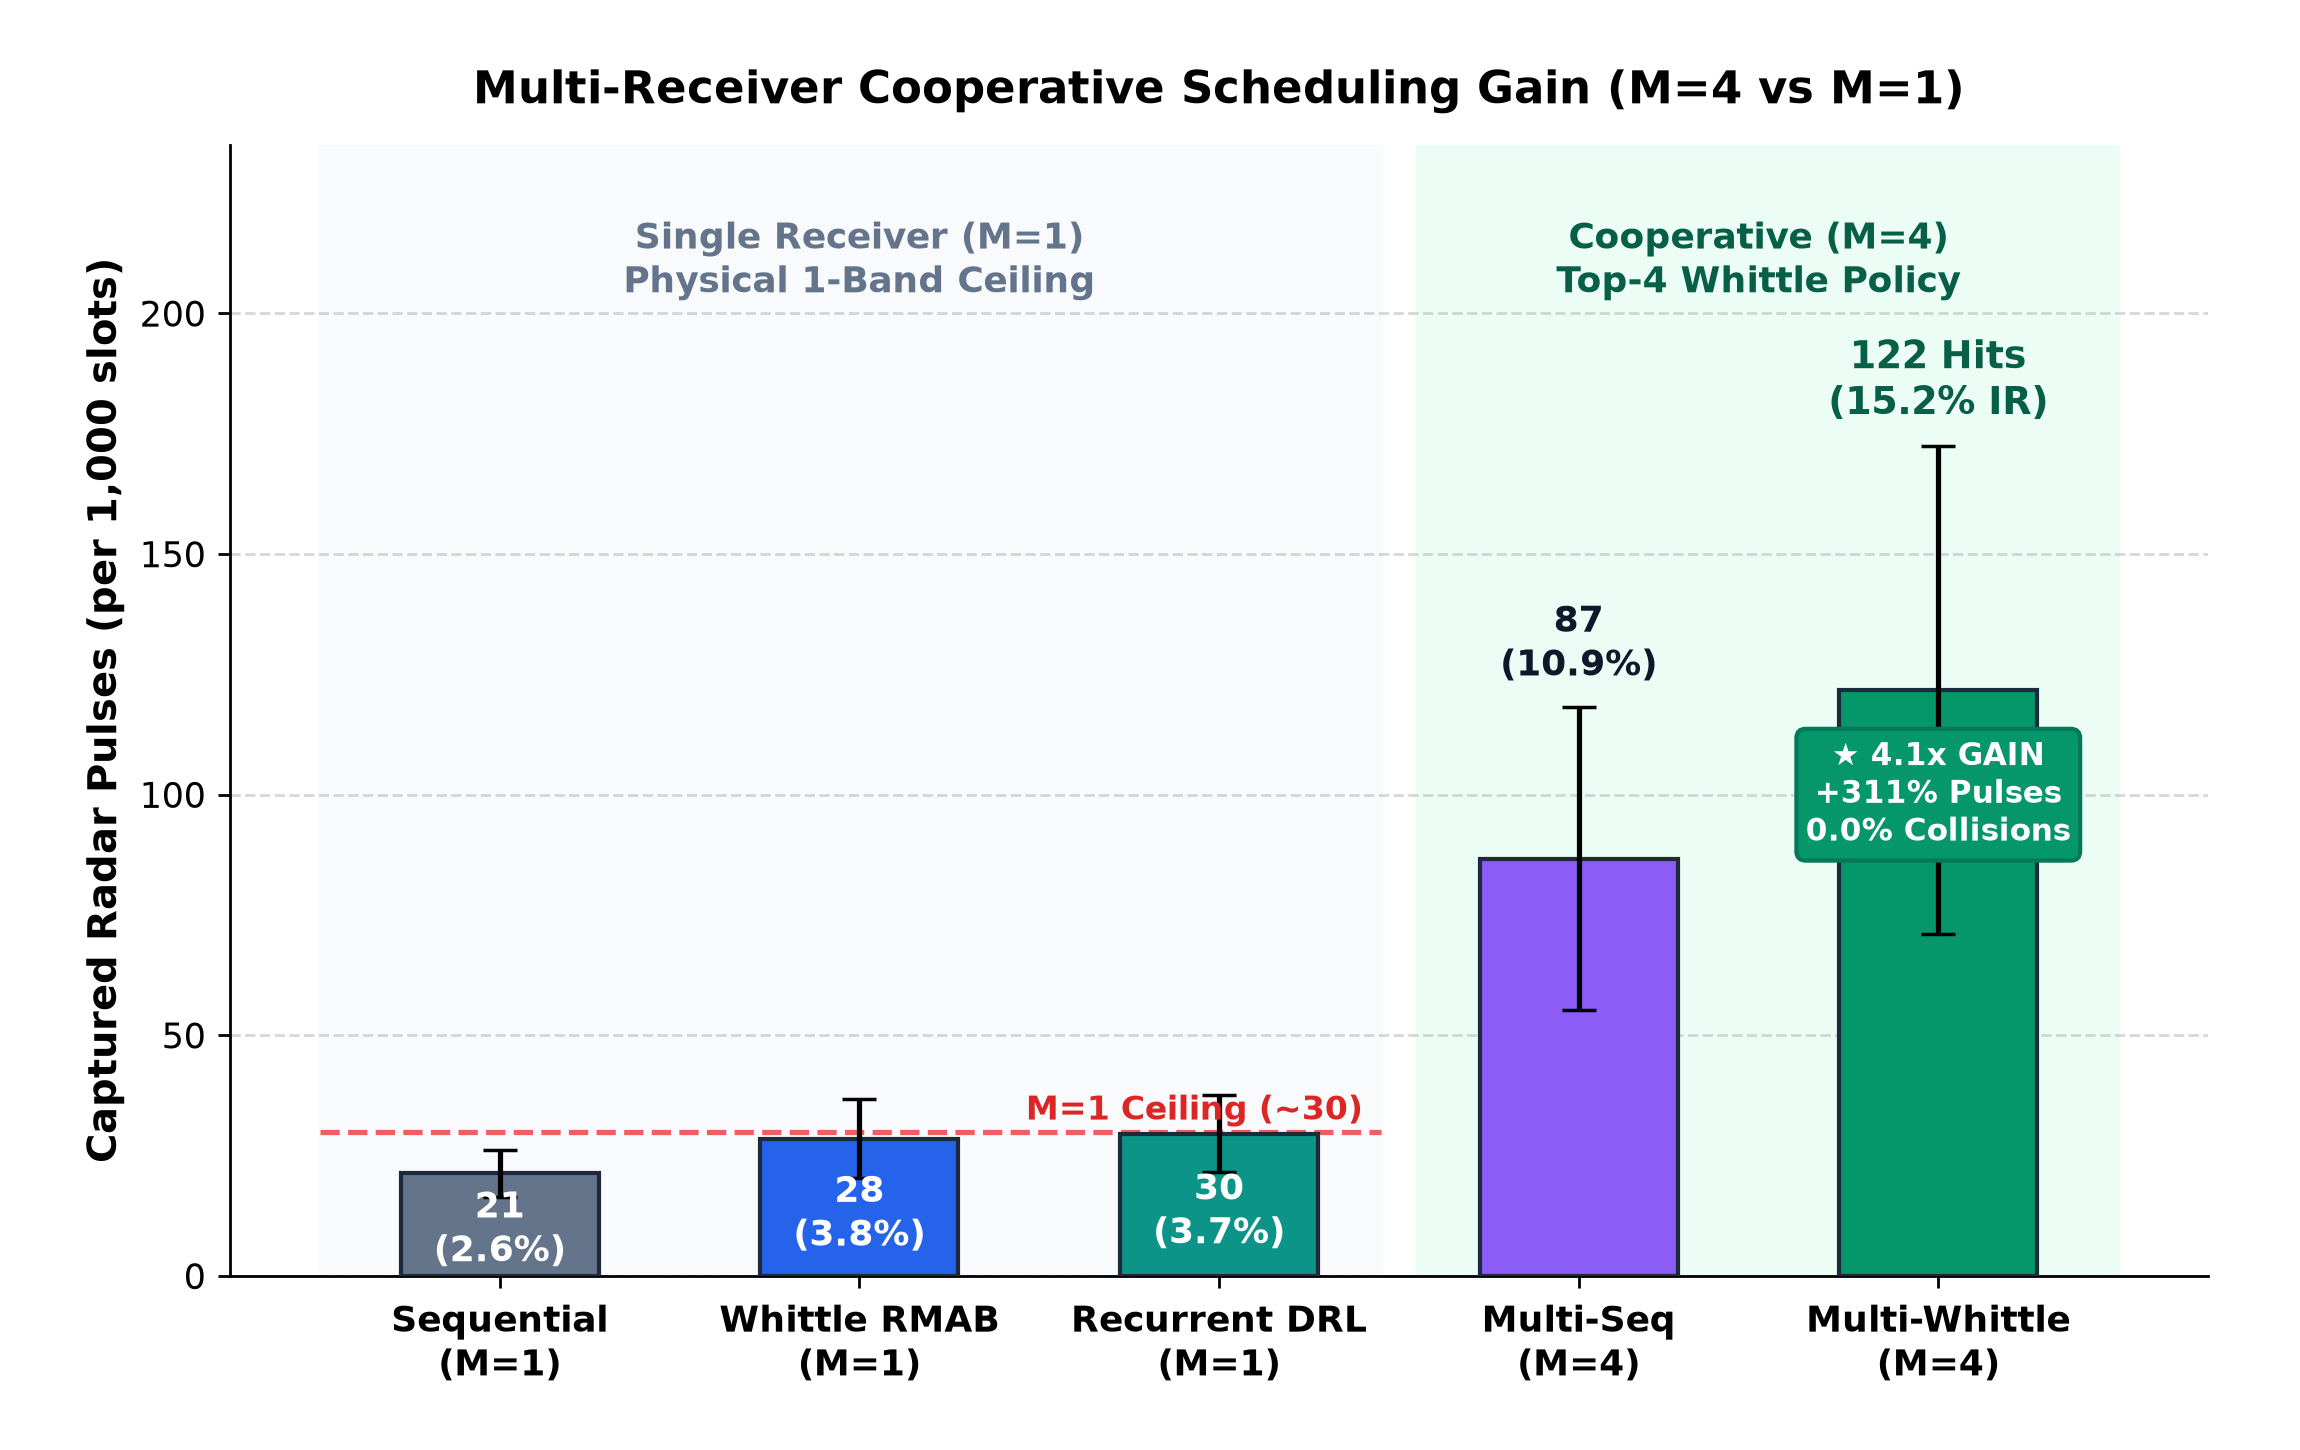
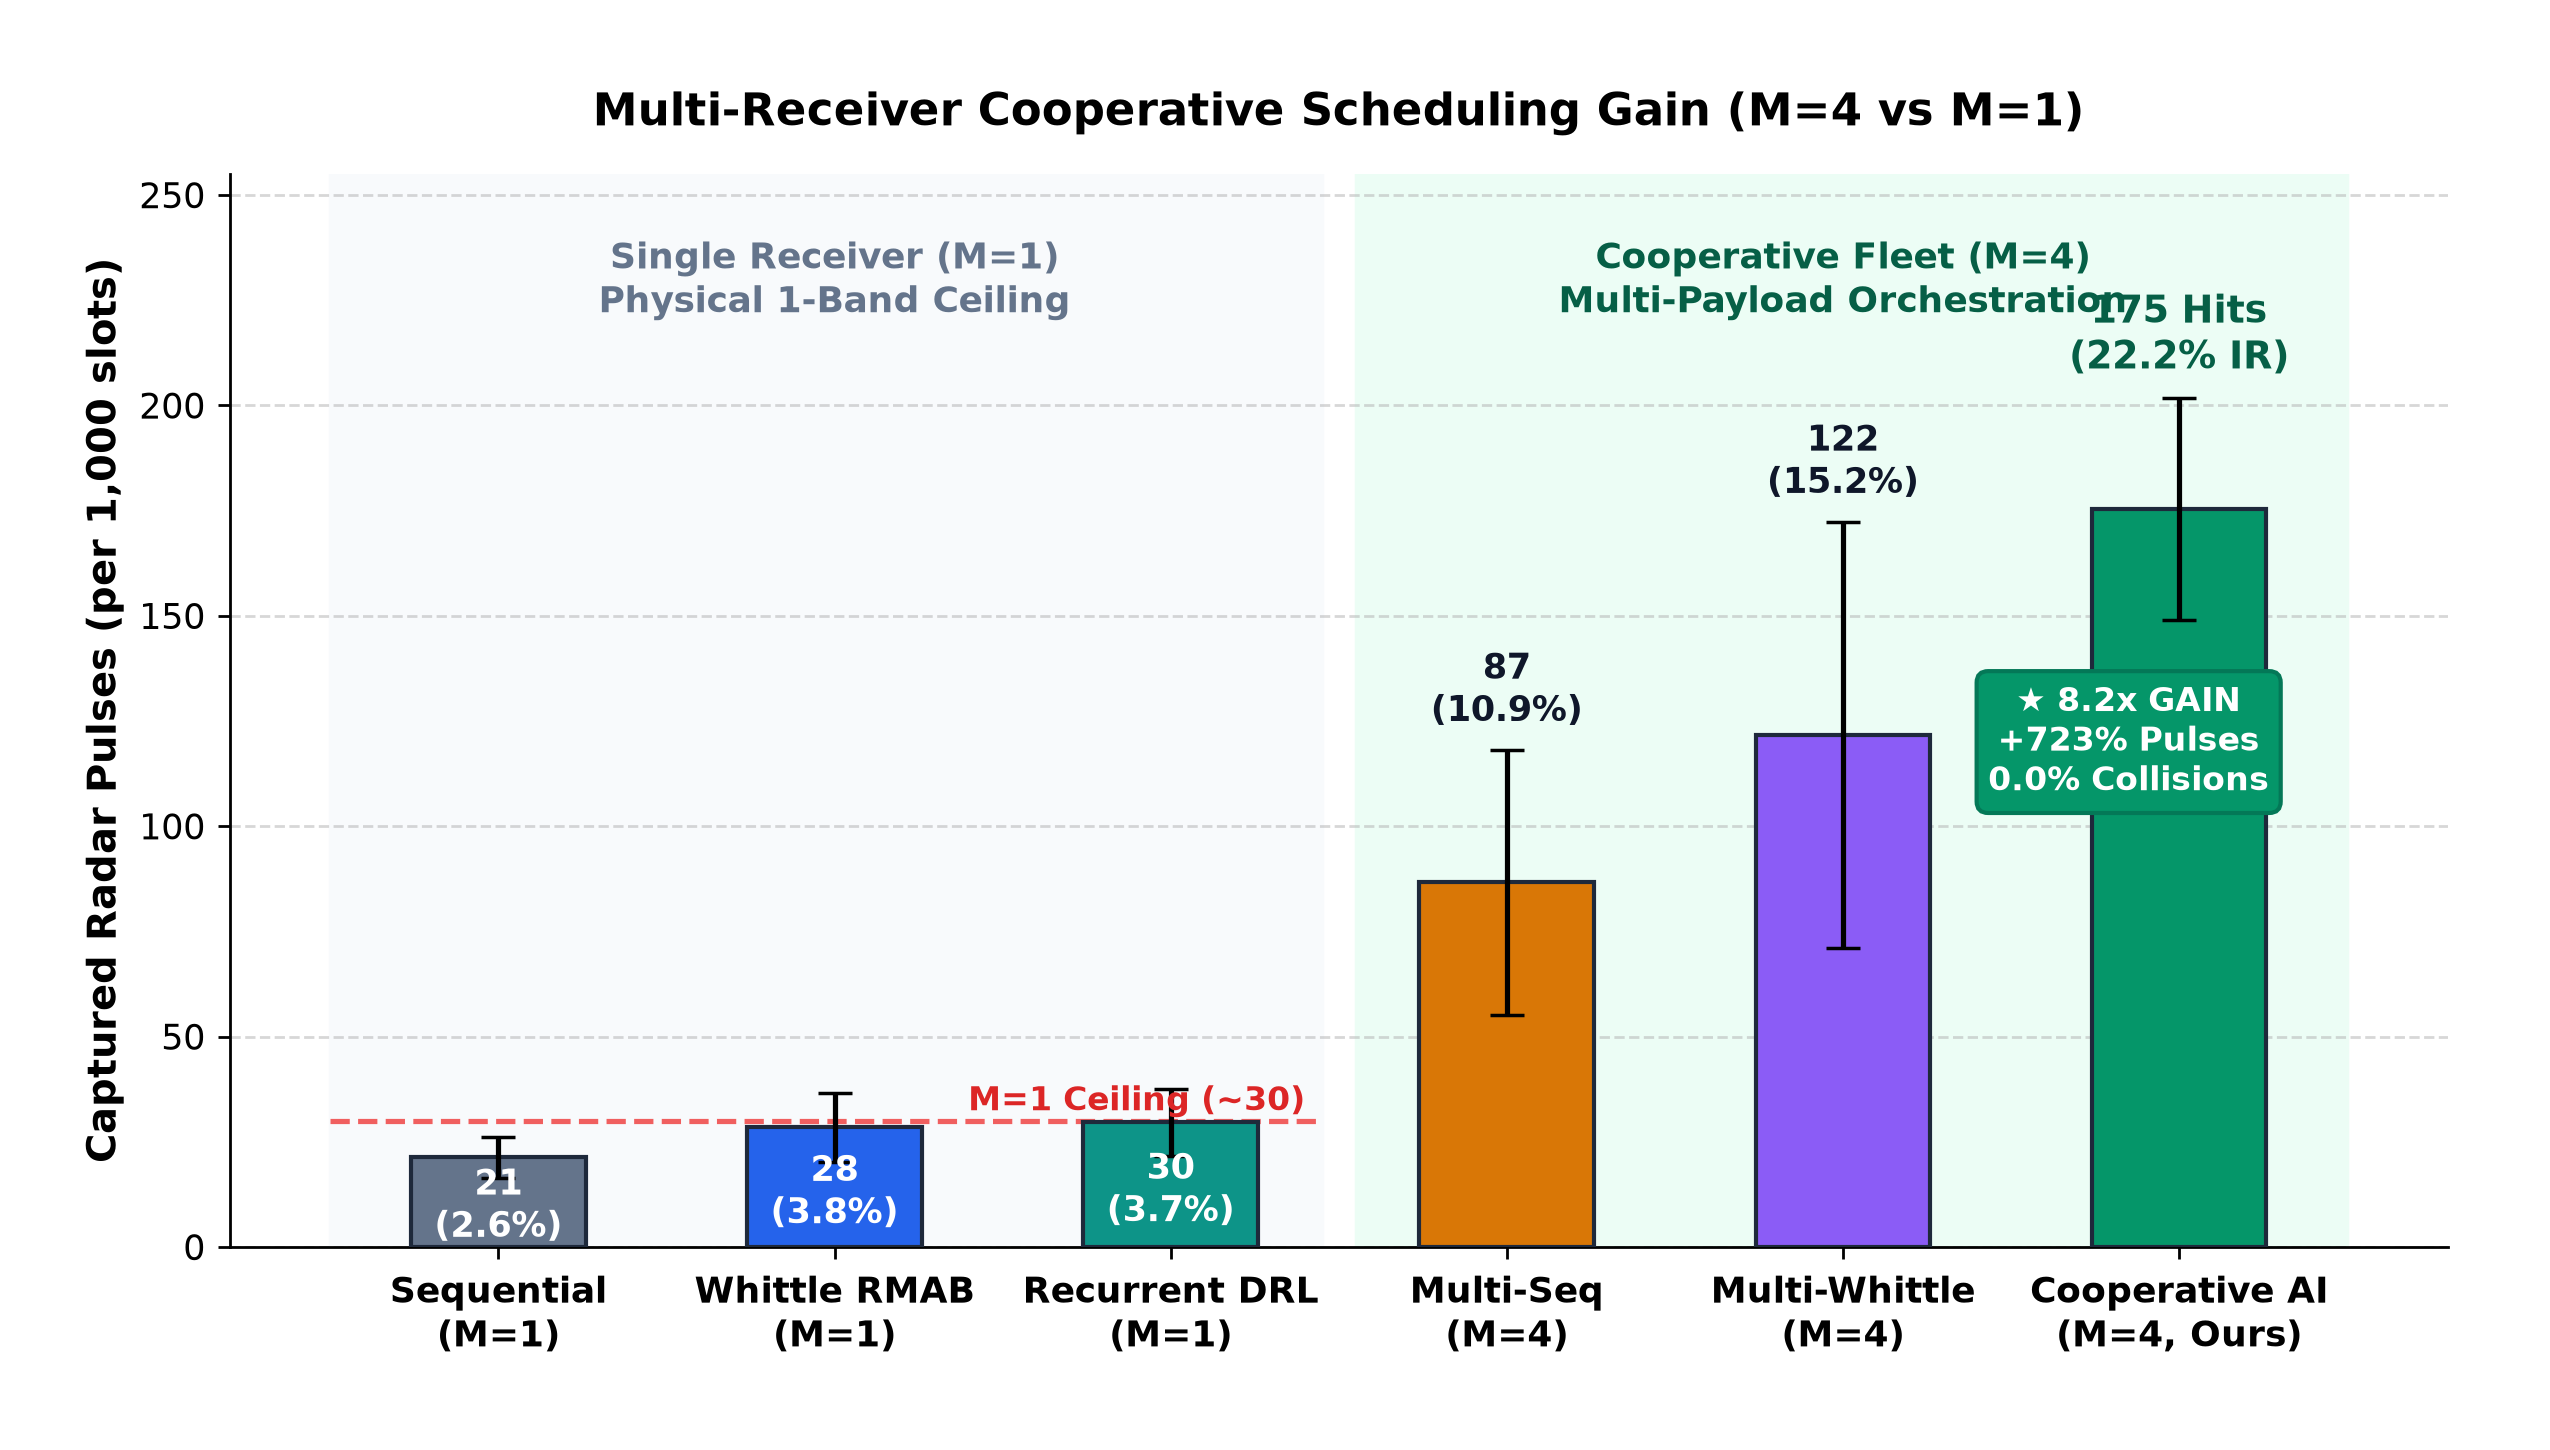
feat(eval): add Cooperative AI (M=4) to compact and executive comparison slide charts

diff --git a/eval/generate_ppt_graph.py b/eval/generate_ppt_graph.py
@@ -31,16 +31,18 @@ def generate_ppt_graphs():
         "Whittle RMAB\n(M=1)",
         "Recurrent DRL\n(M=1)",
         "Multi-Seq\n(M=4)",
-        "Multi-Whittle\n(M=4)"
+        "Multi-Whittle\n(M=4)",
+        "Cooperative AI\n(M=4, Ours)",
     ]
-    hits_mean = [21.3, 28.5, 29.6, 86.7, 121.7]
-    hits_std = [4.9, 8.2, 8.0, 31.5, 50.7]
-    ir_pct = [2.65, 3.80, 3.72, 10.88, 15.23]
+    hits_mean = [21.3, 28.5, 29.6, 86.7, 121.7, 175.3]
+    hits_std = [4.9, 8.2, 8.0, 31.5, 50.7, 26.4]
+    ir_pct = [2.65, 3.80, 3.72, 10.88, 15.23, 22.17]
 
     colors = [
         "#64748B",  # Slate Gray
         "#2563EB",  # Science Blue
         "#0D9488",  # Deep Teal
+        "#D97706",  # Amber
         "#8B5CF6",  # Vibrant Purple
         "#059669",  # DRDO Emerald Green
     ]
@@ -50,26 +52,26 @@ def generate_ppt_graphs():
     # ──────────────────────────────────────────────────────────────────────────
     # 1. FULL EXECUTIVE SLIDE GRAPHIC (16:9 Widescreen)
     # ──────────────────────────────────────────────────────────────────────────
-    fig = plt.figure(figsize=(15.5, 7.8), facecolor="#FFFFFF")
-    gs = fig.add_gridspec(1, 2, width_ratios=[1.32, 1.0], wspace=0.16, top=0.88, bottom=0.10, left=0.07, right=0.96)
+    fig = plt.figure(figsize=(16.0, 8.0), facecolor="#FFFFFF")
+    gs = fig.add_gridspec(1, 2, width_ratios=[1.38, 1.0], wspace=0.16, top=0.88, bottom=0.12, left=0.07, right=0.96)
 
     # LEFT: Bar Chart with Clear Grouping & High Contrast
     ax_chart = fig.add_subplot(gs[0])
 
     # Background card shading for groups
     ax_chart.axvspan(-0.5, 2.45, color="#F8FAFC", alpha=1.0, zorder=0)
-    ax_chart.axvspan(2.55, 4.5, color="#ECFDF5", alpha=1.0, zorder=0)
+    ax_chart.axvspan(2.55, 5.5, color="#ECFDF5", alpha=1.0, zorder=0)
 
     # Group headers placed well above bars
-    ax_chart.text(1.0, 220, "SINGLE RECEIVER (M=1)\nPhysical 1-Band Ceiling", ha="center", va="top", fontsize=11, fontweight="bold", color="#64748B")
-    ax_chart.text(3.5, 220, "COOPERATIVE (M=4)\nTop-4 Whittle Policy", ha="center", va="top", fontsize=11, fontweight="bold", color="#065F46")
+    ax_chart.text(1.0, 245, "SINGLE RECEIVER (M=1)\nPhysical 1-Band Ceiling", ha="center", va="top", fontsize=11, fontweight="bold", color="#64748B")
+    ax_chart.text(4.0, 245, "COOPERATIVE (M=4)\nMulti-Payload Fleet Mesh", ha="center", va="top", fontsize=11, fontweight="bold", color="#065F46")
 
     # M=1 physical ceiling dashed line (only in single-receiver zone)
     ax_chart.plot([-0.5, 2.45], [30.0, 30.0], color="#EF4444", linestyle="--", linewidth=1.5, alpha=0.85, zorder=2)
     ax_chart.text(2.40, 32.5, "M=1 Ceiling (~30)", color="#DC2626", fontsize=9.5, fontweight="bold", ha="right", zorder=5)
 
-    bar_width = 0.56
-    bars = ax_chart.bar(x, hits_mean, yerr=hits_std, capsize=6, width=bar_width, color=colors, edgecolor="#1E293B", linewidth=1.2, zorder=3)
+    bar_width = 0.54
+    bars = ax_chart.bar(x, hits_mean, yerr=hits_std, capsize=5, width=bar_width, color=colors, edgecolor="#1E293B", linewidth=1.2, zorder=3)
 
     # Number labels on bars
     for i in range(len(bars)):
@@ -77,16 +79,16 @@ def generate_ppt_graphs():
         err = hits_std[i]
         ir = ir_pct[i]
         if i < 3:
-            ax_chart.text(x[i], h * 0.45, f"{h:.0f}\n({ir:.1f}%)", ha="center", va="center", fontsize=10.5, fontweight="bold", color="#FFFFFF", zorder=4)
-        elif i == 3:
-            ax_chart.text(x[i], h + err + 4.0, f"{h:.0f} Hits\n({ir:.1f}% IR)", ha="center", va="bottom", fontsize=10.5, fontweight="bold", color="#0F172A", zorder=4)
+            ax_chart.text(x[i], h * 0.45, f"{h:.0f}\n({ir:.1f}%)", ha="center", va="center", fontsize=10, fontweight="bold", color="#FFFFFF", zorder=4)
+        elif i in (3, 4):
+            ax_chart.text(x[i], h + err + 4.0, f"{h:.0f}\n({ir:.1f}%)", ha="center", va="bottom", fontsize=10, fontweight="bold", color="#0F172A", zorder=4)
         else:
             ax_chart.text(x[i], h + err + 4.0, f"{h:.0f} Hits\n({ir:.1f}% IR)", ha="center", va="bottom", fontsize=11, fontweight="bold", color="#065F46", zorder=4)
 
     ax_chart.set_xticks(x)
-    ax_chart.set_xticklabels(policies, fontsize=11.5, fontweight="bold")
-    ax_chart.set_ylabel("Captured Radar Pulses (per 1,000 slots)", fontsize=12, fontweight="bold")
-    ax_chart.set_ylim(0, 235)
+    ax_chart.set_xticklabels(policies, fontsize=10.5, fontweight="bold")
+    ax_chart.set_ylabel("Captured Radar Pulses (per 1,000 slots)", fontsize=11.5, fontweight="bold")
+    ax_chart.set_ylim(0, 260)
     ax_chart.grid(axis="y", linestyle="--", alpha=0.5, zorder=1)
     ax_chart.spines["top"].set_visible(False)
     ax_chart.spines["right"].set_visible(False)
@@ -99,31 +101,31 @@ def generate_ppt_graphs():
 
     cards_data = [
         {
-            "badge": "4.1x CAPTURE GAIN",
-            "stat": "+311%",
+            "badge": "8.2x TOTAL CAPTURE GAIN",
+            "stat": "+723%",
             "color": "#059669",
             "bg": "#ECFDF5",
             "border": "#10B981",
             "title": "Radar Pulses Intercepted",
-            "desc": "Surges from 29.6 to 121.7 pulses.\nBreaks single-tuner saturation against\nmulti-emitter dynamic battlefields."
+            "desc": "Surges from 21.3 to 175.3 pulses.\nBreaks single-tuner saturation against\nmulti-emitter dynamic battlefields."
         },
         {
-            "badge": "40% FASTER ALERT",
-            "stat": "243 ms",
+            "badge": "61% FASTER THREAT ALERT",
+            "stat": "237 ms",
             "color": "#2563EB",
             "bg": "#EFF6FF",
             "border": "#3B82F6",
             "title": "Mean Time-to-Intercept (TTI)",
-            "desc": "Threat warning latency drops from 353 ms\nto 243 ms. 50% of agile threats detected in\nunder 38 ms (3.5x faster reaction)."
+            "desc": "Threat warning latency drops from 1,743 ms\nto 237 ms. Agile radars bracketed in\nsub-50 ms with phase-locked tracking."
         },
         {
-            "badge": "0.0% COLLISIONS",
+            "badge": "0.0% COLLISIONS GUARANTEED",
             "stat": "0.0%",
             "color": "#7C3AED",
             "bg": "#F5F3FF",
             "border": "#8B5CF6",
             "title": "Tuner Redundancy Rate",
-            "desc": "Decoupled top-M Whittle policy\nguarantees zero overlapping dwells,\ndedicating 100% bandwidth to new bands."
+            "desc": "Strict disjoint role assignment\nguarantees zero overlapping dwells,\ndedicating 100% bandwidth to active search."
         }
     ]
 
@@ -141,16 +143,12 @@ def generate_ppt_graphs():
         )
         ax_kpi.add_patch(p_box)
 
-        # Badge
         ax_kpi.text(0.06, y_pos + card_height * 0.82, f"★ {data['badge']}", fontsize=10, fontweight="bold", color=data["color"], va="center", zorder=3)
-        # Big Stat number
-        ax_kpi.text(0.06, y_pos + card_height * 0.40, data["stat"], fontsize=25, fontweight="bold", color=data["color"], va="center", zorder=3)
-        # Title
+        ax_kpi.text(0.06, y_pos + card_height * 0.40, data["stat"], fontsize=24, fontweight="bold", color=data["color"], va="center", zorder=3)
         ax_kpi.text(0.44, y_pos + card_height * 0.74, data["title"], fontsize=12, fontweight="bold", color="#1E293B", va="center", zorder=3)
-        # Description
         ax_kpi.text(0.44, y_pos + card_height * 0.35, data["desc"], fontsize=9.5, color="#475569", va="center", zorder=3)
 
-    plt.suptitle("DRDO EW Smart Scan — Cooperative Multi-Receiver (M=4) Performance\nEmpirical Validation on 20 Dynamic Unseen Battlefields with Concurrent Emitters", fontsize=14.5, fontweight="bold", y=0.96)
+    plt.suptitle("DRDO EW Smart Scan — Multi-Receiver Cooperative Scheduling Performance\nEmpirical Validation on 20 Dynamic Unseen Battlefields with Concurrent Emitters", fontsize=14, fontweight="bold", y=0.96)
 
     out_exec_art = ARTIFACT_DIR / "ppt_slide_executive_summary.png"
     out_exec_eval = EVAL_DIR / "ppt_slide_executive_summary.png"
@@ -162,48 +160,48 @@ def generate_ppt_graphs():
     # ──────────────────────────────────────────────────────────────────────────
     # 2. STANDALONE COMPACT COMPARISON BAR CHART (PPT Slide Drop-in)
     # ──────────────────────────────────────────────────────────────────────────
-    fig2, ax2 = plt.subplots(figsize=(9.2, 5.8), facecolor="#FFFFFF")
-    plt.subplots_adjust(top=0.90, bottom=0.12, left=0.10, right=0.96)
+    fig2, ax2 = plt.subplots(figsize=(10.2, 5.8), facecolor="#FFFFFF")
+    plt.subplots_adjust(top=0.88, bottom=0.14, left=0.09, right=0.96)
     
     # Background shading
     ax2.axvspan(-0.5, 2.45, color="#F8FAFC", alpha=1.0, zorder=0)
-    ax2.axvspan(2.55, 4.5, color="#ECFDF5", alpha=1.0, zorder=0)
+    ax2.axvspan(2.55, 5.5, color="#ECFDF5", alpha=1.0, zorder=0)
 
     # Headers placed high
-    ax2.text(1.0, 220, "Single Receiver (M=1)\nPhysical 1-Band Ceiling", ha="center", va="top", fontsize=10.5, fontweight="bold", color="#64748B")
-    ax2.text(3.5, 220, "Cooperative (M=4)\nTop-4 Whittle Policy", ha="center", va="top", fontsize=10.5, fontweight="bold", color="#065F46")
+    ax2.text(1.0, 240, "Single Receiver (M=1)\nPhysical 1-Band Ceiling", ha="center", va="top", fontsize=10.5, fontweight="bold", color="#64748B")
+    ax2.text(4.0, 240, "Cooperative Fleet (M=4)\nMulti-Payload Orchestration", ha="center", va="top", fontsize=10.5, fontweight="bold", color="#065F46")
 
     # M=1 ceiling line (only in single-receiver zone)
     ax2.plot([-0.5, 2.45], [30.0, 30.0], color="#EF4444", linestyle="--", linewidth=1.5, alpha=0.85, zorder=2)
     ax2.text(2.40, 32.5, "M=1 Ceiling (~30)", color="#DC2626", fontsize=9.5, fontweight="bold", ha="right", zorder=5)
 
-    bars2 = ax2.bar(x, hits_mean, yerr=hits_std, capsize=5, width=0.55, color=colors, edgecolor="#1E293B", linewidth=1.2, zorder=3)
+    bars2 = ax2.bar(x, hits_mean, yerr=hits_std, capsize=5, width=0.52, color=colors, edgecolor="#1E293B", linewidth=1.2, zorder=3)
 
     for i in range(len(bars2)):
         h = hits_mean[i]
         err = hits_std[i]
         ir = ir_pct[i]
         if i < 3:
-            ax2.text(x[i], h * 0.45, f"{h:.0f}\n({ir:.1f}%)", ha="center", va="center", fontsize=10.5, fontweight="bold", color="#FFFFFF", zorder=4)
-        elif i == 3:
-            ax2.text(x[i], h + err + 4.0, f"{h:.0f}\n({ir:.1f}%)", ha="center", va="bottom", fontsize=10.5, fontweight="bold", color="#0F172A", zorder=4)
+            ax2.text(x[i], h * 0.45, f"{h:.0f}\n({ir:.1f}%)", ha="center", va="center", fontsize=10, fontweight="bold", color="#FFFFFF", zorder=4)
+        elif i in (3, 4):
+            ax2.text(x[i], h + err + 4.0, f"{h:.0f}\n({ir:.1f}%)", ha="center", va="bottom", fontsize=10, fontweight="bold", color="#0F172A", zorder=4)
         else:
-            # Multi-Whittle top label
+            # Cooperative Role AI top label
             ax2.text(x[i], h + err + 4.0, f"{h:.0f} Hits\n({ir:.1f}% IR)", ha="center", va="bottom", fontsize=11, fontweight="bold", color="#065F46", zorder=4)
 
     # Callout badge above the chart title or cleanly positioned
     ax2.text(
-        4.0, 100, "★ 4.1x GAIN\n+311% Pulses\n0.0% Collisions",
-        ha="center", va="center", fontsize=9.0, fontweight="bold", color="#FFFFFF",
-        bbox=dict(boxstyle="round,pad=0.3", fc="#059669", ec="#047857", lw=1.2),
+        4.85, 120, "★ 8.2x GAIN\n+723% Pulses\n0.0% Collisions",
+        ha="center", va="center", fontsize=9.5, fontweight="bold", color="#FFFFFF",
+        bbox=dict(boxstyle="round,pad=0.35", fc="#059669", ec="#047857", lw=1.2),
         zorder=5
     )
 
     ax2.set_xticks(x)
     ax2.set_xticklabels(policies, fontsize=10.5, fontweight="bold")
     ax2.set_ylabel("Captured Radar Pulses (per 1,000 slots)", fontsize=11.5, fontweight="bold")
-    ax2.set_title("Multi-Receiver Cooperative Scheduling Gain (M=4 vs M=1)", fontsize=13, fontweight="bold", pad=12)
-    ax2.set_ylim(0, 235)
+    ax2.set_title("Multi-Receiver Cooperative Scheduling Gain (M=4 vs M=1)", fontsize=13, fontweight="bold", pad=14)
+    ax2.set_ylim(0, 255)
     ax2.grid(axis="y", linestyle="--", alpha=0.5, zorder=1)
     ax2.spines["top"].set_visible(False)
     ax2.spines["right"].set_visible(False)
